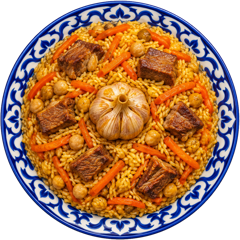
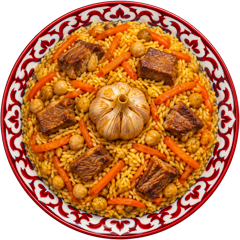
Cola Rush: client comments 13.11 — white/red cars, red plov lagan, Caravan skin, short one-line texts, red bot-style backgrounds
Claude-Session: https://claude.ai/code/session_01QFAJJKP8bdczsR31kgSSqC

Changed region(s): [[0.0, 0.0, 1.0, 1.0]]

diff --git a/public/game/index.html b/public/game/index.html
@@ -21,7 +21,7 @@
   /* ---------- экраны ---------- */
   .screen{position:absolute;inset:0;display:flex;flex-direction:column;align-items:center;overflow-y:auto;overflow-x:hidden;text-align:center;
     padding:calc(16px + var(--ins-t,0px)) 18px calc(18px + var(--ins-b,0px));
-    background:linear-gradient(180deg,rgba(150,8,20,.10) 0%,rgba(120,6,16,.50) 50%,rgba(84,4,12,.94) 100%),url(assets/ui/bg.jpg) center top/cover,#b3101b}
+    background:linear-gradient(180deg,rgba(120,6,16,0) 55%,rgba(110,6,16,.55) 100%),url(assets/ui/bg.jpg?v=1311) center top/cover,#b3101b}
   .screen{z-index:1}
   .screen.lock{pointer-events:none}
   .col{margin:auto 0;width:100%;display:flex;flex-direction:column;align-items:center;gap:12px}   /* центр по вертикали, но со скроллом, если не влезает */
@@ -67,7 +67,7 @@
   /* ---------- старт ---------- */
   #start{padding:0;justify-content:flex-end;overflow:hidden}
   .hero{position:relative;flex:1 1 auto;min-height:0;width:100%;display:flex;flex-direction:column;align-items:center;
-    padding:calc(12px + var(--ins-t,0px)) 0 28px;background:url(assets/ui/bg.jpg) center top/cover,#d4131f}
+    padding:calc(12px + var(--ins-t,0px)) 0 28px;background:url(assets/ui/bg.jpg?v=1311) center top/cover,#d4131f}
   .hero:after{content:"";position:absolute;inset:0;pointer-events:none;opacity:.8;
     background-image:radial-gradient(1.6px 1.6px at 18px 22px,#fff 99%,transparent),radial-gradient(1.2px 1.2px at 74px 61px,#fff 99%,transparent),radial-gradient(2px 2px at 121px 18px,#fff 99%,transparent),radial-gradient(1.3px 1.3px at 160px 95px,#fff 99%,transparent),
       radial-gradient(2.4px 2.4px at 40px 140px,#ffffffcc 99%,transparent),radial-gradient(1.8px 1.8px at 210px 170px,#ffffffcc 99%,transparent),radial-gradient(2.6px 2.6px at 120px 190px,#ffffffaa 99%,transparent);
@@ -148,8 +148,8 @@
   .rcard img,.rcard .rtap{flex:none;width:42px;height:42px;border-radius:13px;background:var(--soft);object-fit:contain;padding:5px}
   .rcard .rtap{display:flex;align-items:center;justify-content:center;color:var(--red)}
   .rcard .rtap .ic{width:26px;height:26px}
-  .rcard b{display:block;font-weight:500;font-size:14.5px;line-height:1.2;color:var(--red)}
-  .rcard small{display:block;font-size:12px;line-height:1.3;color:#5a3a3e;margin-top:2px}
+  .rcard b{display:block;font-weight:500;font-size:14px;line-height:1.2;color:var(--red);white-space:nowrap}
+  .rcard small{display:block;font-size:11.5px;line-height:1.3;color:#5a3a3e;margin-top:2px;white-space:nowrap}
 
   /* ---------- карта ---------- */
   #map{z-index:4;padding-left:12px;padding-right:12px}
@@ -293,7 +293,7 @@
   .pill b.need{color:var(--red);font-weight:500;margin-left:4px}
 </style>
 <script src="https://telegram.org/js/telegram-web-app.js"></script>
-<script src="texts.js"></script>
+<script src="texts.js?v=1311"></script>
 </head>
 <body>
 <div id="wrap">
@@ -391,7 +391,7 @@
       <div class="rcard"><img src="assets/can.png" alt=""><div><b data-t="rules.1t"></b><small data-t="rules.1d"></small></div></div>
       <div class="rcard"><span class="rtap" data-ic="bolt"></span><div><b data-t="rules.2t"></b><small data-t="rules.2d"></small></div></div>
       <div class="rcard"><img src="assets/cone.png" alt=""><div><b data-t="rules.3t"></b><small data-t="rules.3d"></small></div></div>
-      <div class="rcard"><img src="assets/plov.png" alt=""><div><b data-t="rules.4t"></b><small data-t="rules.4d"></small></div></div>
+      <div class="rcard"><img src="assets/plov.png?v=1311" alt=""><div><b data-t="rules.4t"></b><small data-t="rules.4d"></small></div></div>
       <div class="rcard"><span class="rtap" data-ic="map"></span><div><b data-t="rules.5t"></b><small data-t="rules.5d"></small></div></div>
       <div class="rcard"><img src="assets/ui/tanga.png" alt=""><div><b data-t="rules.6t"></b><small data-t="rules.6d"></small></div></div>
     </div>
@@ -491,13 +491,13 @@
   let PLAYER_Y = 500;
   const CAR_W = 46, CAR_H = 96;
   const SKINS = [
-    { id: 'white',  need: 0 },
-    { id: 'black',  need: 500 },
-    { id: 'orange', need: 1000 },
-    { id: 'blue',   need: 1500 },
-    { id: 'red',    need: 2500 },
+    { id: 'white',   need: 0 },
+    { id: 'red',     need: 1000 },
+    { id: 'caravan', need: 2500, w: 40 },        // Караван Coca-Cola: длинная фура, рисуется уже и длиннее
   ];
-  const TRAFFIC = ['blue', 'yellow', 'green', 'gray'];
+  const skinW = s => s.w || CAR_W;                                 // ширина спрайта машины игрока
+  const skinThumb = s => 'assets/' + (s.id === 'caravan' ? 'thumb_caravan' : 'jetour_' + s.id) + '.png';
+  const TRAFFIC = ['red', 'white'];                 // встречные машины: только красные и белые
   const BOOST_NEED = 12;              // банок до турбо
   const BOOST_TIME = 4;               // сек турбо
   const CHG_TIME = 3.5, CHG_TAPS = 14, CHG_DECAY = .12;   // зарядка: секунд на тапы, тапов до полного заряда, потеря заряда в секунду
@@ -511,7 +511,7 @@
   // ---------- картинки (если файла нет, рисуем кодом) ----------
   const IMG = {};
   function load(name, file) {
-    const im = new Image(); im.onload = () => { IMG[name] = im; }; im.src = 'assets/' + file;
+    const im = new Image(); im.onload = () => { IMG[name] = im; }; im.src = 'assets/' + file + (/^plov/.test(file) ? '?v=1311' : '');
   }
   SKINS.forEach(s => load('jetour_' + s.id, 'jetour_' + s.id + '.png'));
   TRAFFIC.forEach(c => load('car_' + c, 'car_' + c + '.png'));
@@ -812,7 +812,7 @@
         const b = document.createElement('button');
         const locked = !skinOwned(s);
         b.className = 'skin' + (i === skin ? ' sel' : '') + (locked ? ' lock' : '');
-        b.innerHTML = '<img src="assets/jetour_' + s.id + '.png" alt="">' + (locked ? '<span class="req">' + (shopOn() ? ico('coin') + skinPrice(s.id) : s.need) + '</span>' : '');
+        b.innerHTML = '<img src="' + skinThumb(s) + '" alt="">' + (locked ? '<span class="req">' + (shopOn() ? ico('coin') + skinPrice(s.id) : s.need) + '</span>' : '');
         b.onclick = () => { if (locked) { if (shopOn()) askSkin(i); else haptic('error'); return; } haptic('select'); skin = i; try { localStorage.setItem('jcr_skin', i); } catch (e) {} renderSkins(); };
         box.appendChild(b);
       });
@@ -1070,9 +1070,9 @@
     if (y > -CAR_H && y < H + CAR_H) {
       ctx.save(); ctx.globalAlpha = alpha;
       if (s && (s.fl & 1)) { const gl = ctx.createRadialGradient(R.x, y, 10, R.x, y, 80); gl.addColorStop(0, 'rgba(255,170,60,.4)'); gl.addColorStop(1, 'rgba(255,170,60,0)'); ctx.fillStyle = gl; ctx.fillRect(R.x - 90, y - 110, 180, 220); }
-      ctx.fillStyle = '#0005'; ctx.beginPath(); ctx.ellipse(R.x + 4, y + 6, CAR_W / 2 + 2, CAR_H / 2, 0, 0, 7); ctx.fill();
-      const im = IMG['jetour_' + SKINS[R.skin].id];
-      if (im) sprite(im, R.x, y, CAR_W); else drawCar(R.x, y, CAR_W, CAR_H, '#dfe3ea', { hero: true });
+      const im = IMG['jetour_' + SKINS[R.skin].id], ow = skinW(SKINS[R.skin]), oh = im ? im.height * ow / im.width : CAR_H;
+      ctx.fillStyle = '#0005'; ctx.beginPath(); ctx.ellipse(R.x + 4, y + 6, ow / 2 + 2, oh / 2, 0, 0, 7); ctx.fill();
+      if (im) sprite(im, R.x, y, ow); else drawCar(R.x, y, CAR_W, CAR_H, '#dfe3ea', { hero: true });
       ctx.globalAlpha = Math.min(1, alpha + .1);
       ctx.font = '500 11px TU,system-ui,sans-serif'; ctx.textAlign = 'center'; ctx.textBaseline = 'middle';                 // имя над машиной
       const label = R.name.length > 12 ? R.name.slice(0, 11) + '…' : R.name, tw = ctx.measureText(label).width + 14, ty = y - CAR_H / 2 - 14;
@@ -1149,7 +1149,7 @@
   const DEMO = !online;                                                                      // вне Telegram: демо-кошелёк на устройстве
   // Токеномика: заработать можно только обменом очков и не больше 20 танга в день, тратить — без ограничений.
   // 20 танга ≈ одна бутылка: услуги по 1–2 танга, машины от 50 (+50 каждая), города от 30 (+10 каждый).
-  const DEF_PRICES = { skins: { black: 50, orange: 100, blue: 150, red: 200 }, revive: 2, boosts: { turbo: 2, shield: 2, magnet: 1, x2: 2 }, city: null };
+  const DEF_PRICES = { skins: { red: 50, caravan: 100 }, revive: 2, boosts: { turbo: 2, shield: 2, magnet: 1, x2: 2 }, city: null };
   const DEF_RATE = { pts: 1000, tanga: 1 }, DEMO_XCAP = 20, MAX_REVIVES = 3;
   const BOOSTS = [{ id: 'turbo', ico: 'bolt' }, { id: 'shield', ico: 'heart' }, { id: 'magnet', ico: 'magnet' }, { id: 'x2', ico: 'can' }];
   const shopOn = () => DEMO || !!(eco && eco.shop);
@@ -1209,7 +1209,7 @@
   };
   function askSkin(i) {
     const s = SKINS[i], n = skinPrice(s.id);
-    ask({ ico: '<img src="assets/jetour_' + s.id + '.png" alt="">', title: tr('skin.buyT'), text: tr('skin.buyS', { n }), btn: tr('skin.buy', { n }), cost: n,
+    ask({ ico: '<img src="' + skinThumb(s) + '" alt="">', title: tr(s.id === 'caravan' ? 'skin.caravanT' : 'skin.buyT'), text: tr('skin.buyS', { n }), btn: tr('skin.buy', { n }), cost: n,
       go: async () => { const r = await shop('skin/buy', { skin: s.id }); setEco(r.eco); skin = i; try { localStorage.setItem('jcr_skin', i); } catch (e) {} renderSkins(); haptic('success'); toast(tr('skin.done')); } });
   }
   // бусты на заезд: выбираются на старте, оплачиваются при старте заезда
@@ -1466,7 +1466,7 @@
       drawIcon(c, ci.ico, 0, 0, 11.5, '#fff'); c.restore(); }
     // машина едет по дороге
     { const [x, y, a] = routePoint(u + (intro >= 1 ? .02 * Math.sin(t * 1.6) : 0)), img = IMG['jetour_' + SKINS[skin].id];
-      if (img) { c.save(); c.translate(x, y); c.rotate(a + Math.PI / 2); c.shadowColor = 'rgba(0,0,0,.45)'; c.shadowBlur = 3; c.drawImage(img, -4.8, -9.8, 9.6, 9.6 * img.height / img.width); c.restore(); } }
+      if (img) { c.save(); c.translate(x, y); c.rotate(a + Math.PI / 2); c.shadowColor = 'rgba(0,0,0,.45)'; c.shadowBlur = 3; { const mw = SKINS[skin].id === 'caravan' ? 7 : 9.6, mh = mw * img.height / img.width; c.drawImage(img, -mw / 2, -Math.min(mh / 2, 9.8), mw, mh); }; c.restore(); } }
     // круги от нажатия
     for (let k = ripples.length - 1; k >= 0; k--) { const r = ripples[k], p = (now - r.t) / 700; if (p < 0) continue; if (p > 1) { if (k < ripples.length - 1 || p > 3) ripples.splice(k, 1); continue; } c.strokeStyle = 'rgba(255,176,0,' + (1 - p) + ')'; c.lineWidth = 1.6; c.beginPath(); c.arc(r.x, r.y, 4 + p * 16, 0, 7); c.stroke(); }
     if (prog.done) drawIcon(c, 'flag', MP[CITY_COUNT - 1][0] + 1, MP[CITY_COUNT - 1][1] - 12, 11, '#e41e2b');
@@ -2010,8 +2010,9 @@
         gl.addColorStop(0, 'rgba(255,170,60,.45)'); gl.addColorStop(1, 'rgba(255,170,60,0)');
         ctx.fillStyle = gl; ctx.fillRect(g.px - 100, PLAYER_Y - 120, 200, 240);
       }
-      ctx.save(); ctx.fillStyle = '#0006'; ctx.beginPath(); ctx.ellipse(g.px + 4, PLAYER_Y + 6, CAR_W / 2 + 2, CAR_H / 2, 0, 0, 7); ctx.fill(); ctx.restore();
-      if (hero) sprite(hero, g.px, PLAYER_Y, CAR_W, g.tilt);
+      const hw = skinW(SKINS[skin]), hh = hero ? hero.height * hw / hero.width : CAR_H;
+      ctx.save(); ctx.fillStyle = '#0006'; ctx.beginPath(); ctx.ellipse(g.px + 4, PLAYER_Y + 6, hw / 2 + 2, hh / 2, 0, 0, 7); ctx.fill(); ctx.restore();
+      if (hero) sprite(hero, g.px, PLAYER_Y, hw, g.tilt);
       else drawCar(g.px, PLAYER_Y, CAR_W, CAR_H, '#f4f6f8', { hero: true, rot: g.tilt });
     }
     // частицы

diff --git a/public/game/texts.js b/public/game/texts.js
@@ -9,18 +9,18 @@ window.JCR_TEXTS = {
     'btn.ride': 'Ехать', 'btn.rideTo': 'Ехать {to}', 'btn.rideFree': 'Заезд: {city}', 'btn.locked': 'Закрыто',
     'btn.ach': 'Достижения', 'btn.close': 'Закрыть', 'btn.later': 'Позже', 'btn.cancel': 'Отмена', 'btn.continue': 'Играть дальше',
     'btn.refuel': 'Заправиться', 'btn.fuelOne': 'Заправить', 'btn.fuelFull': 'Полный бак',
-    'start.hint': 'Свайпните или нажмите на нужную полосу',
+    'start.hint': 'Свайп или тап по полосе',
     'over.brand': 'Финиш',
     'map.title': 'Путешествие по Узбекистану', 'map.overview': 'Обзор', 'map.prev': 'Предыдущий город', 'map.next': 'Следующий город',
     'lb.title': 'Рейтинг недели',
 
     // экран правил
     'rules.title': 'Как играть',
-    'rules.1t': 'Собирайте крышки', 'rules.1d': 'Золотая крышка — +50 очков, бутылка Coca-Cola Bayram — +120.',
-    'rules.2t': 'Нажимайте — будет турбо', 'rules.2d': 'Соберите 12 крышек, и время замедлится. Быстро нажимайте на экран — включится турбо, и машина пронесётся сквозь всё.',
-    'rules.3t': 'Объезжайте препятствия', 'rules.3d': 'Снеговики, сугробы и машины отнимают жизнь, их у вас 3. Чтобы сменить полосу, свайпните или нажмите на неё.',
-    'rules.4t': 'Топливо и плов', 'rules.4d': 'Каждый заезд тратит 1 топливо, бак наполняется сам. Плов на дороге даёт +1 топливо. Не хотите ждать — заправьтесь за тангу.',
-    'rules.5t': 'Путешествие', 'rules.5d': 'Набирайте крышки и очки, чтобы открыть следующий город. Впереди 14 городов Узбекистана.',
+    'rules.1t': 'Собирайте крышки', 'rules.1d': 'Крышка +50 очков, бутылка +120',
+    'rules.2t': 'Турбо', 'rules.2d': '12 крышек — быстро жмите на экран',
+    'rules.3t': 'Объезжайте препятствия', 'rules.3d': 'Свайп или тап по полосе. Жизней: 3',
+    'rules.4t': 'Топливо и плов', 'rules.4d': 'Заезд — 1 топливо, плов — +1',
+    'rules.5t': 'Путешествие', 'rules.5d': 'Копите очки и открывайте 14 городов',
     'rules.go': 'Понятно, поехали!',
 
     // заезд
@@ -88,10 +88,10 @@ window.JCR_TEXTS = {
     'over.pts': '+{n} очков на счёт. Обменяйте их на танга',
     // траты танга
     'b.turbo': 'Турбо', 'b.shield': '+1 жизнь', 'b.magnet': 'Магнит', 'b.x2': '×2 крышки', 'btn.goCost': 'Поехали · {n} танга',
-    'rules.6t': 'Танга', 'rules.6d': 'Очки можно обменять на танга, до 20 танга в день. Тратьте танга на топливо, бусты, второй шанс, машины и города.',
-    'skin.buyT': 'Новая машина', 'skin.buyS': 'Купить эту машину за {n} танга? Она останется у вас навсегда.', 'skin.buy': 'Купить · {n} танга', 'skin.done': 'Машина ваша!',
-    'revive.t': 'Второй шанс', 'revive.s': 'Продолжите заезд с одной жизнью. Очки и крышки сохранятся. Каждый следующий шанс дороже.', 'revive.go': 'Продолжить · {n} танга', 'revive.no': 'Завершить заезд', 'revive.done': 'Поехали дальше!',
-    'city.buy': 'Открыть за {n} танга', 'city.buyT': 'Открыть {city}?', 'city.buyS': 'Город откроется сразу, без набора крышек и очков.', 'city.buyGo': 'Открыть · {n} танга',
+    'rules.6t': 'Танга', 'rules.6d': 'Очки → танга, до 20 в день',
+    'skin.buyT': 'Новая машина', 'skin.caravanT': 'Караван Coca-Cola', 'skin.buyS': 'Останется у вас навсегда', 'skin.buy': 'Купить · {n} танга', 'skin.done': 'Машина ваша!',
+    'revive.t': 'Второй шанс', 'revive.s': 'Продолжите с 1 жизнью, очки сохранятся', 'revive.go': 'Продолжить · {n} танга', 'revive.no': 'Завершить заезд', 'revive.done': 'Поехали дальше!',
+    'city.buy': 'Открыть за {n} танга', 'city.buyT': 'Открыть {city}?', 'city.buyS': 'Город откроется сразу', 'city.buyGo': 'Открыть · {n} танга',
     'shop.bal': 'У вас {n} танга', 'shop.need': 'не хватает {n}', 'shop.fail': 'Не получилось. Попробуйте ещё раз',
     'prog.done': 'Путешествие пройдено', 'prog.free': 'свободный заезд',
     'map.caps': 'Крышки', 'map.pts': 'Очки', 'map.note': 'Цель можно набрать за несколько заездов',
@@ -116,17 +116,17 @@ window.JCR_TEXTS = {
     'btn.ride': 'Ketdik', 'btn.rideTo': '{to} ketdik', 'btn.rideFree': 'Poyga: {city}', 'btn.locked': 'Yopiq',
     'btn.ach': 'Yutuqlar', 'btn.close': 'Yopish', 'btn.later': 'Keyinroq', 'btn.cancel': 'Bekor qilish', 'btn.continue': 'Davom etish',
     'btn.refuel': 'Yoqilg‘i quyish', 'btn.fuelOne': 'Quyish', 'btn.fuelFull': 'To‘la bak',
-    'start.hint': 'Kerakli qatorga suring yoki bosing',
+    'start.hint': 'Qatorga suring yoki bosing',
     'over.brand': 'Marra',
     'map.title': 'O‘zbekiston bo‘ylab sayohat', 'map.overview': 'Umumiy', 'map.prev': 'Oldingi shahar', 'map.next': 'Keyingi shahar',
     'lb.title': 'Hafta reytingi',
 
     'rules.title': 'Qanday o‘ynaladi',
-    'rules.1t': 'Qopqoqlarni yig‘ing', 'rules.1d': 'Oltin qopqoq — +50 ochko, Coca-Cola Bayram shishasi — +120.',
-    'rules.2t': 'Bosing — turbo yoqiladi', 'rules.2d': '12 ta qopqoq yig‘ing — vaqt sekinlashadi. Ekranga tez-tez bosing: turbo yoqiladi va mashina hammasini yorib o‘tadi.',
-    'rules.3t': 'To‘siqlarni aylanib o‘ting', 'rules.3d': 'Qor odamlar, qor uyumlari va mashinalar jonni oladi, sizda 3 ta jon bor. Qatorni almashtirish uchun suring yoki unga bosing.',
-    'rules.4t': 'Yoqilg‘i va palov', 'rules.4d': 'Har bir poyga 1 yoqilg‘i sarflaydi, bak o‘zi to‘ladi. Yo‘ldagi palov +1 yoqilg‘i beradi. Kutishni xohlamasangiz — tangaga yoqilg‘i quying.',
-    'rules.5t': 'Sayohat', 'rules.5d': 'Keyingi shaharni ochish uchun qopqoq va ochko to‘plang. Oldinda O‘zbekistonning 14 ta shahri.',
+    'rules.1t': 'Qopqoqlarni yig‘ing', 'rules.1d': 'Qopqoq +50 ochko, shisha +120',
+    'rules.2t': 'Turbo', 'rules.2d': '12 ta qopqoq — ekranga tez bosing',
+    'rules.3t': 'To‘siqlardan qoching', 'rules.3d': 'Qatorga suring yoki bosing. 3 ta jon',
+    'rules.4t': 'Yoqilg‘i va palov', 'rules.4d': 'Poyga — 1 yoqilg‘i, palov — +1',
+    'rules.5t': 'Sayohat', 'rules.5d': 'Ochko to‘plab, 14 ta shaharni oching',
     'rules.go': 'Tushunarli, ketdik!',
 
     'game.plov': 'Palov! +1 yoqilg‘i', 'game.tap': 'BOSING!', 'game.ready': 'STARTGA', 'game.go': 'KETDIK!',
@@ -186,10 +186,10 @@ window.JCR_TEXTS = {
     'over.pts': '+{n} ochko hisobingizga tushdi. Ularni tangaga almashtiring',
     // tanga sarflash
     'b.turbo': 'Turbo', 'b.shield': '+1 jon', 'b.magnet': 'Magnit', 'b.x2': '×2 qopqoq', 'btn.goCost': 'Ketdik · {n} tanga',
-    'rules.6t': 'Tanga', 'rules.6d': 'Ochkolarni tangaga almashtirish mumkin, kuniga 20 tangagacha. Tangalarni yoqilg‘i, bustlar, ikkinchi imkoniyat, mashinalar va shaharlarga sarflang.',
-    'skin.buyT': 'Yangi mashina', 'skin.buyS': 'Bu mashinani {n} tangaga sotib olasizmi? U sizda abadiy qoladi.', 'skin.buy': 'Sotib olish · {n} tanga', 'skin.done': 'Mashina sizniki!',
-    'revive.t': 'Ikkinchi imkoniyat', 'revive.s': 'Poygani bitta jon bilan davom ettiring. Ochko va qopqoqlar saqlanadi. Har keyingi imkoniyat qimmatroq.', 'revive.go': 'Davom etish · {n} tanga', 'revive.no': 'Poygani yakunlash', 'revive.done': 'Davom etamiz!',
-    'city.buy': '{n} tangaga ochish', 'city.buyT': '{city} ochilsinmi?', 'city.buyS': 'Shahar qopqoq va ochko to‘plamasdan darhol ochiladi.', 'city.buyGo': 'Ochish · {n} tanga',
+    'rules.6t': 'Tanga', 'rules.6d': 'Ochko → tanga, kuniga 20 tagacha',
+    'skin.buyT': 'Yangi mashina', 'skin.caravanT': 'Coca-Cola karvoni', 'skin.buyS': 'Sizda abadiy qoladi', 'skin.buy': 'Sotib olish · {n} tanga', 'skin.done': 'Mashina sizniki!',
+    'revive.t': 'Ikkinchi imkoniyat', 'revive.s': '1 ta jon bilan davom eting, ochko saqlanadi', 'revive.go': 'Davom etish · {n} tanga', 'revive.no': 'Poygani yakunlash', 'revive.done': 'Davom etamiz!',
+    'city.buy': '{n} tangaga ochish', 'city.buyT': '{city} ochilsinmi?', 'city.buyS': 'Shahar darhol ochiladi', 'city.buyGo': 'Ochish · {n} tanga',
     'shop.bal': 'Sizda {n} tanga', 'shop.need': '{n} yetmaydi', 'shop.fail': 'Bo‘lmadi. Yana urinib ko‘ring',
     'prog.done': 'Sayohat yakunlandi', 'prog.free': 'erkin poyga',
     'map.caps': 'Qopqoqlar', 'map.pts': 'Ochko', 'map.note': 'Maqsadga bir necha poygada erishish mumkin',
